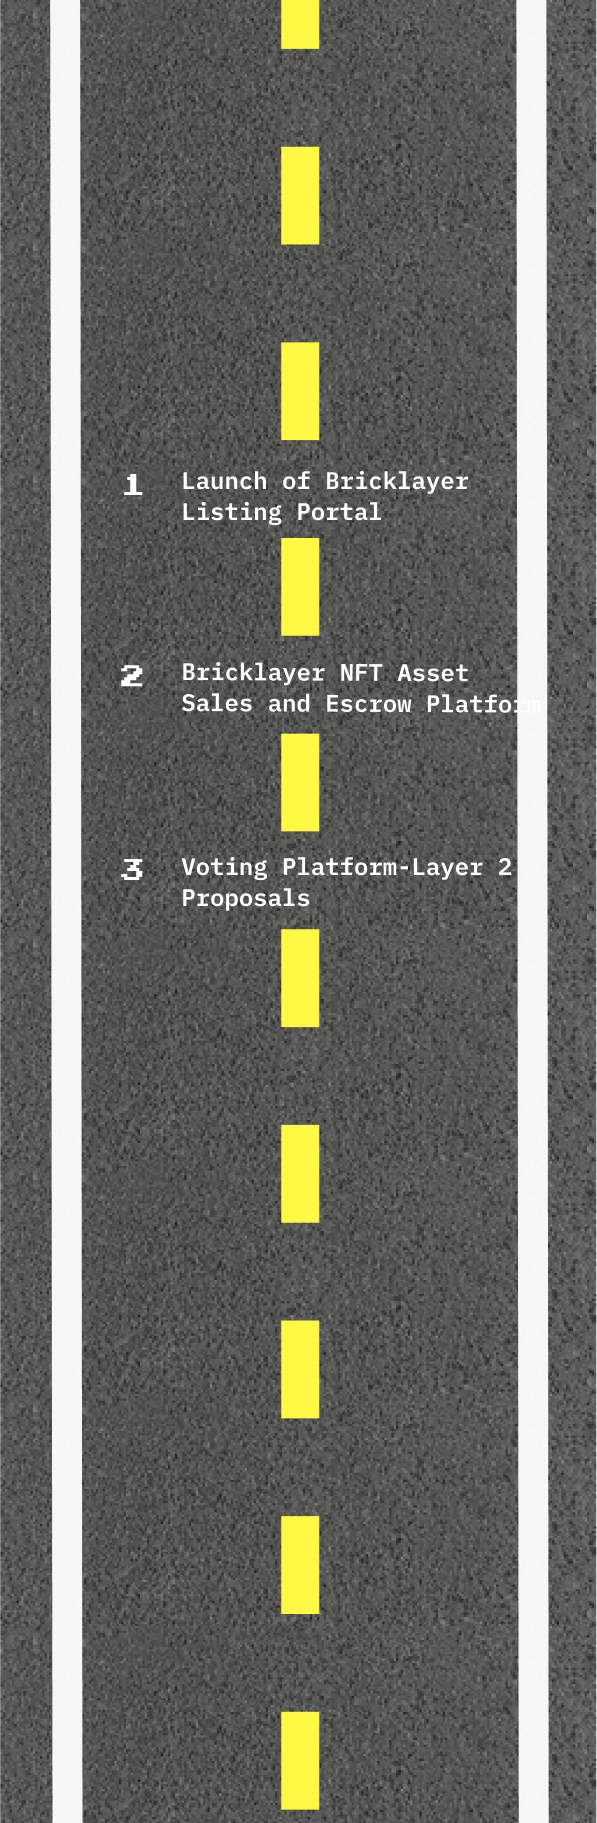
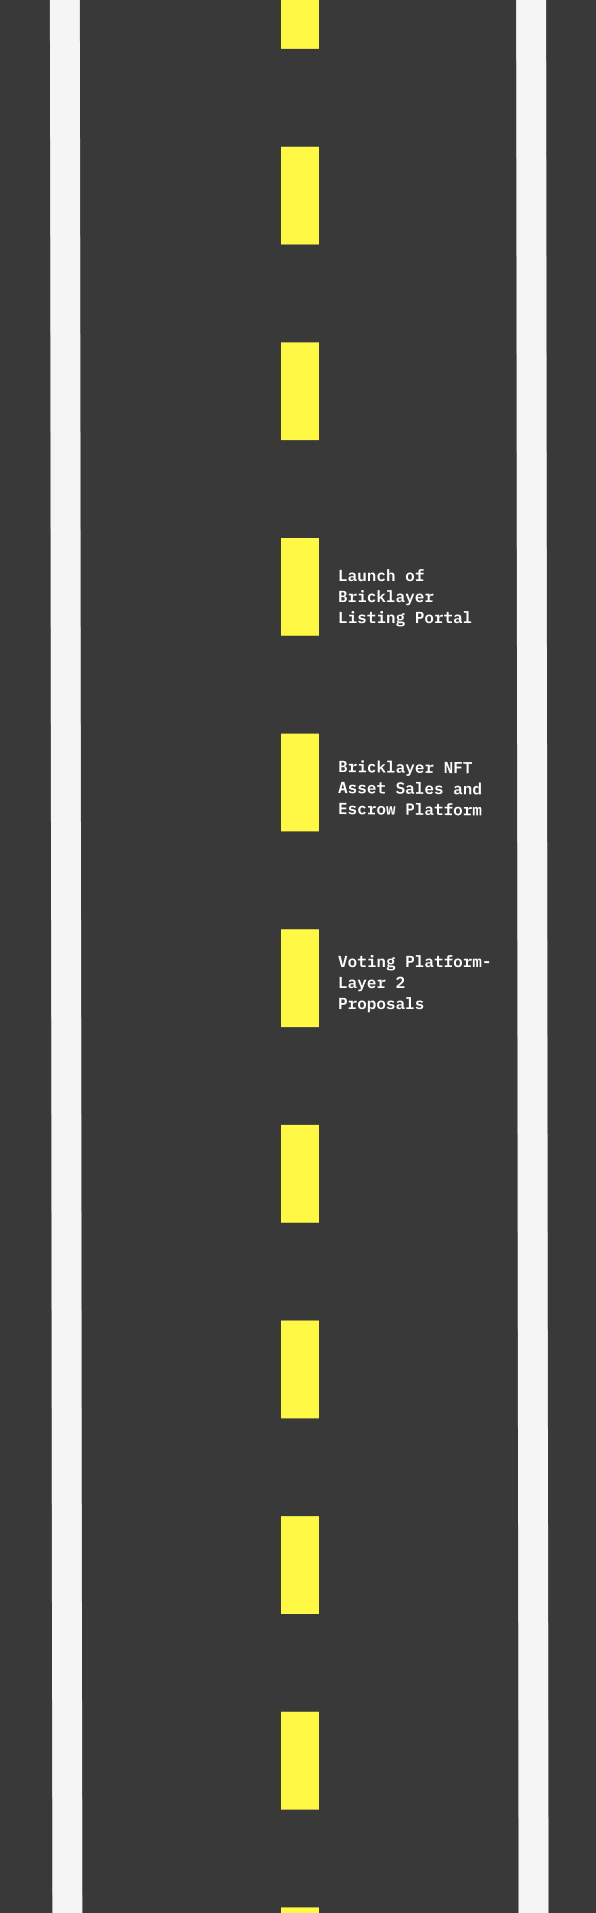
Adding two images for year2 and year3

diff --git a/src/app/roadmap/page.js b/src/app/roadmap/page.js
@@ -5,16 +5,15 @@ import React, { useEffect } from "react";
 
 export default function useRoadmap() {
     const [activeYear, setActiveYear] = React.useState(null);
-    const carPositions = [125, 75, 50]; // Positions for Year 1, Year 2, Year 3
-    const [currentCarPosition, setCurrentCarPosition] = React.useState(50);
+    const carPositions = [125, 75, 70]; // Positions for Year 1, Year 2, Year 3
+    const [currentCarPosition, setCurrentCarPosition] = React.useState(70);
     const [isCarMoving, setIsCarMoving] = React.useState(false);
-
 
     useEffect(() => {
         if (isCarMoving) {
             const timeoutId = setTimeout(() => {
                 setIsCarMoving(false);
-            }, 10000);
+            }, 3000);
             return () => {
                 clearTimeout(timeoutId);
             };
@@ -41,19 +40,19 @@ export default function useRoadmap() {
             case 1:
                 return (
                     <div className="flex justify-center">
-                        <img className="invisible" src="/bg-images/road-year1.png" alt=""></img>
+                        <img className="invisible w-[596px] h-[3739px]" src="/bg-images/road-year1.png" alt=""></img>
                     </div>
                 );
             case 2:
                 return (
                     <div className="flex justify-center">
-                        <img className="invisible" src="/bg-images/road-year1.png" alt=""></img>
+                        <img className="invisible w-[596px] " src="/bg-images/road-year2.png" alt=""></img>
                     </div>
                 );
             case 3:
                 return (
                     <div className="flex justify-center">
-                        <img className="invisible" src="/bg-images/road-year3.png" alt=""></img>
+                        <img className="invisible w-[596px] " src="/bg-images/road-year3.png" alt=""></img>
                     </div>
                 );
             default:
@@ -124,7 +123,7 @@ export default function useRoadmap() {
                         </div>
                     </div>
                     {/* Images */}
-                    <div className="absolute inset-0 items-center justify-center h-full flex flex-shrink gap-36 mt-[2000px]" >
+                    <div className="absolute inset-0 items-center justify-center h-full flex flex-shrink gap-36 mt-[1500px]">
                         <img src="/traffic-barrier-1.png" alt="Traffic Barrier 1" />
                         <img src="/traffic-barrier-2.png" alt="Traffic Barrier 2" />
                     </div>
